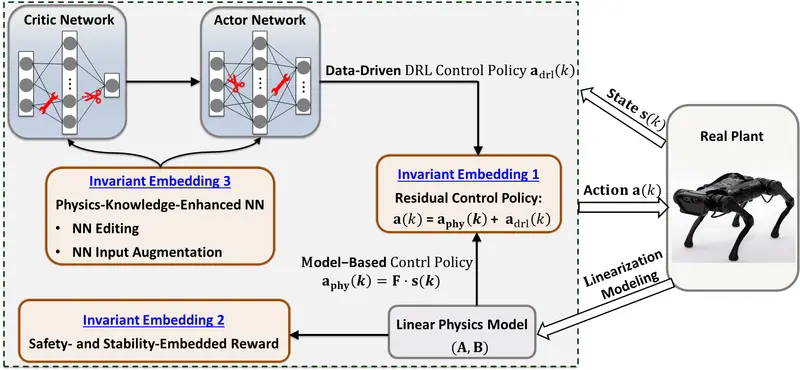
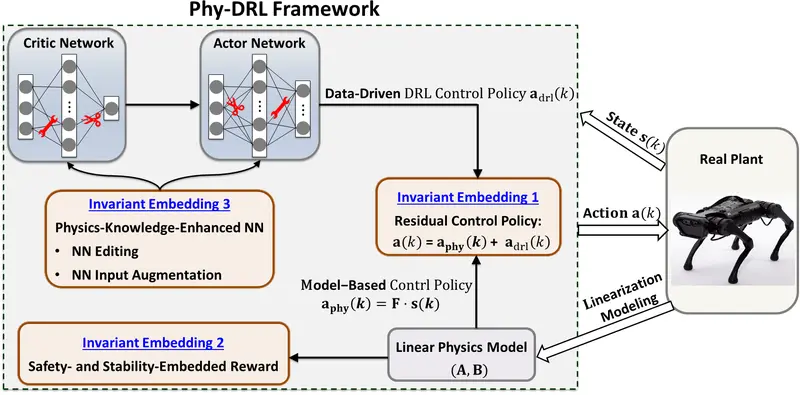
Deploying to gh-pages from @ CPS-IL/CPS-IL.github.io@ddca40976056ca32e72172afb1ae37f847421c06 🚀

Changed region(s): [[0.0, 0.0, 1.0, 1.0]]

diff --git a/projects/physics-ai/index.html b/projects/physics-ai/index.html
@@ -1,1 +1,1 @@
-<!DOCTYPE html> <html lang="en"> <head> <meta http-equiv="Content-Type" content="text/html; charset=UTF-8"> <meta charset="utf-8"> <meta name="viewport" content="width=device-width, initial-scale=1, shrink-to-fit=no"> <meta http-equiv="X-UA-Compatible" content="IE=edge"> <title>Safe Physics-AI | Cyber-Physical Systems Integration Lab </title> <meta name="author" content="Cyber-Physical Systems Integration Lab "> <meta name="description" content="Physics Model Guided Machine Learning"> <meta name="keywords" content="cyber-physical-system, real-time-system,"> <link href="https://cdn.jsdelivr.net/npm/bootstrap@4.6.1/dist/css/bootstrap.min.css" rel="stylesheet" integrity="sha256-DF7Zhf293AJxJNTmh5zhoYYIMs2oXitRfBjY+9L//AY=" crossorigin="anonymous"> <link rel="stylesheet" href="https://cdn.jsdelivr.net/npm/mdbootstrap@4.20.0/css/mdb.min.css" integrity="sha256-jpjYvU3G3N6nrrBwXJoVEYI/0zw8htfFnhT9ljN3JJw=" crossorigin="anonymous"> <link defer rel="stylesheet" href="https://unpkg.com/bootstrap-table@1.21.4/dist/bootstrap-table.min.css"> <link rel="stylesheet" href="https://cdn.jsdelivr.net/npm/@fortawesome/fontawesome-free@6.4.0/css/all.min.css" integrity="sha256-HtsXJanqjKTc8vVQjO4YMhiqFoXkfBsjBWcX91T1jr8=" crossorigin="anonymous"> <link rel="stylesheet" href="https://cdn.jsdelivr.net/npm/academicons@1.9.1/css/academicons.min.css" integrity="sha256-i1+4qU2G2860dGGIOJscdC30s9beBXjFfzjWLjBRsBg=" crossorigin="anonymous"> <link rel="stylesheet" type="text/css" href="https://fonts.googleapis.com/css?family=Roboto:300,400,500,700|Roboto+Slab:100,300,400,500,700|Material+Icons"> <link rel="stylesheet" href="https://cdn.jsdelivr.net/gh/jwarby/jekyll-pygments-themes@master/github.css" media="" id="highlight_theme_light"> <link rel="shortcut icon" href="/assets/img/cpsil_icon.png"> <link rel="stylesheet" href="/assets/css/main.css?d41d8cd98f00b204e9800998ecf8427e"> <link rel="canonical" href="https://cps-il.github.io//projects/physics-ai/"> <link rel="stylesheet" href="https://cdn.jsdelivr.net/gh/jwarby/jekyll-pygments-themes@master/native.css" media="none" id="highlight_theme_dark"> <script src="/assets/js/theme.js?96d6b3e1c3604aca8b6134c7afdd5db6"></script> <script src="/assets/js/dark_mode.js?9b17307bb950ffa2e34be0227f53558f"></script> </head> <body class="fixed-top-nav sticky-bottom-footer"> <header> <nav id="navbar" class="navbar navbar-light navbar-expand-sm fixed-top"> <div class="container"> <a class="navbar-brand title font-weight-lighter" href="/"><span class="font-weight-bold">Cyber-Physical Systems Integration Lab </span></a> <button class="navbar-toggler collapsed ml-auto" type="button" data-toggle="collapse" data-target="#navbarNav" aria-controls="navbarNav" aria-expanded="false" aria-label="Toggle navigation"> <span class="sr-only">Toggle navigation</span> <span class="icon-bar top-bar"></span> <span class="icon-bar middle-bar"></span> <span class="icon-bar bottom-bar"></span> </button> <div class="collapse navbar-collapse text-right" id="navbarNav"> <ul class="navbar-nav ml-auto flex-nowrap"> <li class="nav-item "> <a class="nav-link" href="/">about</a> </li> <li class="nav-item "> <a class="nav-link" href="/projects/">projects</a> </li> <li class="nav-item "> <a class="nav-link" href="/publications/">publications</a> </li> <li class="nav-item "> <a class="nav-link" href="/people/">people</a> </li> <li class="nav-item "> <a class="nav-link" href="/sponsors/">sponsors</a> </li> <li class="toggle-container"> <button id="light-toggle" title="Change theme"> <i class="fas fa-moon"></i> <i class="fas fa-sun"></i> </button> </li> </ul> </div> </div> </nav> <progress id="progress" value="0"> <div class="progress-container"> <span class="progress-bar"></span> </div> </progress> </header> <div class="container mt-5"> <div class="post"> <header class="post-header"> <h1 class="post-title">Safe Physics-AI</h1> <p class="post-description">Physics Model Guided Machine Learning</p> </header> <article> <div style="text-align: justify;"> <p> A physics model is a validated low-dimensional model of causality with critical properties such as provable stability in control applications. DNN is a high-dimensional model of correlations that may capture not only unmodeled dynamics overlooked by the physics model but also spurious corrections in the training samples (overfitting). As a result, while DNN has statistically significant performance improvement, but it may also generate outputs inconsistent with the laws of physics that could lead to catastrophic failures. We propose a solution that combines the best of the physical model and DNN model. </p> <p> Traditionally, we project a higher dimensional space to a lower dimension space for computational efficiency at the cost of performance. Physics model-based neuron editing turns this conventional projection approach upside down. We project a lower dimensional physics model onto a higher dimensional DNN model by 1) augmenting the input feature vector with physic variables and 2) removing relations permitted by DNN but contradicting the laws of physics. The physics model edited DNN is constrained by physical laws. We gain control performance at the cost of computing. To ensure the stability of control despite DNN software failures, we use Simplex architecture to ensure that the states under the control of the edited DNN must remain within the stability envelope of the physical model-based control. </p> </div> <p>&lt;/p&gt;</p> <h2 id="phy-drl-physics-regulated-deep-reinforcement-learning-drl-towards-safety-guarantee">Phy-DRL: Physics-Regulated Deep Reinforcement Learning (DRL) Towards Safety Guarantee</h2> <h1 id="phy-drl--physics-model-based-policy--data-driven-drl-policy-showing-in">Phy-DRL = Physics Model-Based Policy + Data-Driven DRL Policy, showing in</h1> <div style="text-align: center;"> <img src="/assets/img/physics-ai/phydrl.png" alt="Centered Image" style="width: 500px; height: auto;"> </div> <div style="text-align: center;"> <img src="/assets/img/physics-ai/ph2.png" alt="Centered Image" style="width: 500px; height: auto;"> </div> </article> </div> </div> <footer class="sticky-bottom mt-5"> <div class="container"> © Copyright 2023 Cyber-Physical Systems Integration Lab . Powered by <a href="https://jekyllrb.com/" target="_blank" rel="external nofollow noopener">Jekyll</a> with <a href="https://github.com/alshedivat/al-folio" rel="external nofollow noopener" target="_blank">al-folio</a> theme. Hosted by <a href="https://pages.github.com/" target="_blank" rel="external nofollow noopener">GitHub Pages</a>. Photos from <a href="https://unsplash.com" target="_blank" rel="external nofollow noopener">Unsplash</a>. </div> </footer> <script src="https://cdn.jsdelivr.net/npm/jquery@3.6.0/dist/jquery.min.js" integrity="sha256-/xUj+3OJU5yExlq6GSYGSHk7tPXikynS7ogEvDej/m4=" crossorigin="anonymous"></script> <script src="https://cdn.jsdelivr.net/npm/bootstrap@4.6.1/dist/js/bootstrap.bundle.min.js" integrity="sha256-fgLAgv7fyCGopR/gBNq2iW3ZKIdqIcyshnUULC4vex8=" crossorigin="anonymous"></script> <script src="https://cdn.jsdelivr.net/npm/mdbootstrap@4.20.0/js/mdb.min.js" integrity="sha256-NdbiivsvWt7VYCt6hYNT3h/th9vSTL4EDWeGs5SN3DA=" crossorigin="anonymous"></script> <script defer src="https://cdn.jsdelivr.net/npm/masonry-layout@4.2.2/dist/masonry.pkgd.min.js" integrity="sha256-Nn1q/fx0H7SNLZMQ5Hw5JLaTRZp0yILA/FRexe19VdI=" crossorigin="anonymous"></script> <script defer src="https://cdn.jsdelivr.net/npm/imagesloaded@4/imagesloaded.pkgd.min.js"></script> <script defer src="/assets/js/masonry.js" type="text/javascript"></script> <script defer src="https://cdn.jsdelivr.net/npm/medium-zoom@1.0.8/dist/medium-zoom.min.js" integrity="sha256-7PhEpEWEW0XXQ0k6kQrPKwuoIomz8R8IYyuU1Qew4P8=" crossorigin="anonymous"></script> <script defer src="/assets/js/zoom.js"></script> <script defer src="https://unpkg.com/bootstrap-table@1.21.4/dist/bootstrap-table.min.js"></script> <script src="/assets/js/no_defer.js?d633890033921b33e0ceb13d22340a9c"></script> <script defer src="/assets/js/common.js?acdb9690d7641b2f8d40529018c71a01"></script> <script defer src="/assets/js/copy_code.js?c9d9dd48933de3831b3ee5ec9c209cac" type="text/javascript"></script> <script type="text/javascript">window.MathJax={tex:{tags:"ams"}};</script> <script defer type="text/javascript" id="MathJax-script" src="https://cdn.jsdelivr.net/npm/mathjax@3.2.0/es5/tex-mml-chtml.js"></script> <script defer src="https://polyfill.io/v3/polyfill.min.js?features=es6"></script> <script type="text/javascript">function progressBarSetup(){"max"in document.createElement("progress")?(initializeProgressElement(),$(document).on("scroll",function(){progressBar.attr({value:getCurrentScrollPosition()})}),$(window).on("resize",initializeProgressElement)):(resizeProgressBar(),$(document).on("scroll",resizeProgressBar),$(window).on("resize",resizeProgressBar))}function getCurrentScrollPosition(){return $(window).scrollTop()}function initializeProgressElement(){let e=$("#navbar").outerHeight(!0);$("body").css({"padding-top":e}),$("progress-container").css({"padding-top":e}),progressBar.css({top:e}),progressBar.attr({max:getDistanceToScroll(),value:getCurrentScrollPosition()})}function getDistanceToScroll(){return $(document).height()-$(window).height()}function resizeProgressBar(){progressBar.css({width:getWidthPercentage()+"%"})}function getWidthPercentage(){return getCurrentScrollPosition()/getDistanceToScroll()*100}const progressBar=$("#progress");window.onload=function(){setTimeout(progressBarSetup,50)};</script> </body> </html>
+<!DOCTYPE html> <html lang="en"> <head> <meta http-equiv="Content-Type" content="text/html; charset=UTF-8"> <meta charset="utf-8"> <meta name="viewport" content="width=device-width, initial-scale=1, shrink-to-fit=no"> <meta http-equiv="X-UA-Compatible" content="IE=edge"> <title>Safe Physics-AI | Cyber-Physical Systems Integration Lab </title> <meta name="author" content="Cyber-Physical Systems Integration Lab "> <meta name="description" content="Physics Model Guided Machine Learning"> <meta name="keywords" content="cyber-physical-system, real-time-system,"> <link href="https://cdn.jsdelivr.net/npm/bootstrap@4.6.1/dist/css/bootstrap.min.css" rel="stylesheet" integrity="sha256-DF7Zhf293AJxJNTmh5zhoYYIMs2oXitRfBjY+9L//AY=" crossorigin="anonymous"> <link rel="stylesheet" href="https://cdn.jsdelivr.net/npm/mdbootstrap@4.20.0/css/mdb.min.css" integrity="sha256-jpjYvU3G3N6nrrBwXJoVEYI/0zw8htfFnhT9ljN3JJw=" crossorigin="anonymous"> <link defer rel="stylesheet" href="https://unpkg.com/bootstrap-table@1.21.4/dist/bootstrap-table.min.css"> <link rel="stylesheet" href="https://cdn.jsdelivr.net/npm/@fortawesome/fontawesome-free@6.4.0/css/all.min.css" integrity="sha256-HtsXJanqjKTc8vVQjO4YMhiqFoXkfBsjBWcX91T1jr8=" crossorigin="anonymous"> <link rel="stylesheet" href="https://cdn.jsdelivr.net/npm/academicons@1.9.1/css/academicons.min.css" integrity="sha256-i1+4qU2G2860dGGIOJscdC30s9beBXjFfzjWLjBRsBg=" crossorigin="anonymous"> <link rel="stylesheet" type="text/css" href="https://fonts.googleapis.com/css?family=Roboto:300,400,500,700|Roboto+Slab:100,300,400,500,700|Material+Icons"> <link rel="stylesheet" href="https://cdn.jsdelivr.net/gh/jwarby/jekyll-pygments-themes@master/github.css" media="" id="highlight_theme_light"> <link rel="shortcut icon" href="/assets/img/cpsil_icon.png"> <link rel="stylesheet" href="/assets/css/main.css?d41d8cd98f00b204e9800998ecf8427e"> <link rel="canonical" href="https://cps-il.github.io//projects/physics-ai/"> <link rel="stylesheet" href="https://cdn.jsdelivr.net/gh/jwarby/jekyll-pygments-themes@master/native.css" media="none" id="highlight_theme_dark"> <script src="/assets/js/theme.js?96d6b3e1c3604aca8b6134c7afdd5db6"></script> <script src="/assets/js/dark_mode.js?9b17307bb950ffa2e34be0227f53558f"></script> </head> <body class="fixed-top-nav sticky-bottom-footer"> <header> <nav id="navbar" class="navbar navbar-light navbar-expand-sm fixed-top"> <div class="container"> <a class="navbar-brand title font-weight-lighter" href="/"><span class="font-weight-bold">Cyber-Physical Systems Integration Lab </span></a> <button class="navbar-toggler collapsed ml-auto" type="button" data-toggle="collapse" data-target="#navbarNav" aria-controls="navbarNav" aria-expanded="false" aria-label="Toggle navigation"> <span class="sr-only">Toggle navigation</span> <span class="icon-bar top-bar"></span> <span class="icon-bar middle-bar"></span> <span class="icon-bar bottom-bar"></span> </button> <div class="collapse navbar-collapse text-right" id="navbarNav"> <ul class="navbar-nav ml-auto flex-nowrap"> <li class="nav-item "> <a class="nav-link" href="/">about</a> </li> <li class="nav-item "> <a class="nav-link" href="/projects/">projects</a> </li> <li class="nav-item "> <a class="nav-link" href="/publications/">publications</a> </li> <li class="nav-item "> <a class="nav-link" href="/people/">people</a> </li> <li class="nav-item "> <a class="nav-link" href="/sponsors/">sponsors</a> </li> <li class="toggle-container"> <button id="light-toggle" title="Change theme"> <i class="fas fa-moon"></i> <i class="fas fa-sun"></i> </button> </li> </ul> </div> </div> </nav> <progress id="progress" value="0"> <div class="progress-container"> <span class="progress-bar"></span> </div> </progress> </header> <div class="container mt-5"> <div class="post"> <header class="post-header"> <h1 class="post-title">Safe Physics-AI</h1> <p class="post-description">Physics Model Guided Machine Learning</p> </header> <article> <div style="text-align: justify;"> <p> A physics model is a validated low-dimensional model of causality with critical properties such as provable stability in control applications. DNN is a high-dimensional model of correlations that may capture not only unmodeled dynamics overlooked by the physics model but also spurious corrections in the training samples (overfitting). As a result, while DNN has statistically significant performance improvement, but it may also generate outputs inconsistent with the laws of physics that could lead to catastrophic failures. We propose a solution that combines the best of the physical model and DNN model. </p> <p> Traditionally, we project a higher dimensional space to a lower dimension space for computational efficiency at the cost of performance. Physics model-based neuron editing turns this conventional projection approach upside down. We project a lower dimensional physics model onto a higher dimensional DNN model by 1) augmenting the input feature vector with physic variables and 2) removing relations permitted by DNN but contradicting the laws of physics. The physics model edited DNN is constrained by physical laws. We gain control performance at the cost of computing. To ensure the stability of control despite DNN software failures, we use Simplex architecture to ensure that the states under the control of the edited DNN must remain within the stability envelope of the physical model-based control. </p> </div> <h1 id="work-1-phy-drl-physics-regulated-deep-reinforcement-learning-drl-towards-safety-guarantee">Work 1: Phy-DRL: Physics-Regulated Deep Reinforcement Learning (DRL) Towards Safety Guarantee</h1> <p>Phy-DRL = Physics Model-Based Policy + Data-Driven DRL Policy.</p> <p><em>Experiment in Cart-Pole Systems.</em></p> <div style="text-align: center;"> <img src="/assets/img/physics-ai/phydrl.png" alt="Centered Image" style="width: 500px; height: auto;"> </div> <p><em>Experiment in Quadruped Robot: safe lane tracking, safe velocity regulation, and safe center-gravity management.</em></p> <div style="text-align: center;"> <img src="/assets/img/physics-ai/ph2.png" alt="Centered Image" style="width: 500px; height: auto;"> </div> </article> </div> </div> <footer class="sticky-bottom mt-5"> <div class="container"> © Copyright 2023 Cyber-Physical Systems Integration Lab . Powered by <a href="https://jekyllrb.com/" target="_blank" rel="external nofollow noopener">Jekyll</a> with <a href="https://github.com/alshedivat/al-folio" rel="external nofollow noopener" target="_blank">al-folio</a> theme. Hosted by <a href="https://pages.github.com/" target="_blank" rel="external nofollow noopener">GitHub Pages</a>. Photos from <a href="https://unsplash.com" target="_blank" rel="external nofollow noopener">Unsplash</a>. </div> </footer> <script src="https://cdn.jsdelivr.net/npm/jquery@3.6.0/dist/jquery.min.js" integrity="sha256-/xUj+3OJU5yExlq6GSYGSHk7tPXikynS7ogEvDej/m4=" crossorigin="anonymous"></script> <script src="https://cdn.jsdelivr.net/npm/bootstrap@4.6.1/dist/js/bootstrap.bundle.min.js" integrity="sha256-fgLAgv7fyCGopR/gBNq2iW3ZKIdqIcyshnUULC4vex8=" crossorigin="anonymous"></script> <script src="https://cdn.jsdelivr.net/npm/mdbootstrap@4.20.0/js/mdb.min.js" integrity="sha256-NdbiivsvWt7VYCt6hYNT3h/th9vSTL4EDWeGs5SN3DA=" crossorigin="anonymous"></script> <script defer src="https://cdn.jsdelivr.net/npm/masonry-layout@4.2.2/dist/masonry.pkgd.min.js" integrity="sha256-Nn1q/fx0H7SNLZMQ5Hw5JLaTRZp0yILA/FRexe19VdI=" crossorigin="anonymous"></script> <script defer src="https://cdn.jsdelivr.net/npm/imagesloaded@4/imagesloaded.pkgd.min.js"></script> <script defer src="/assets/js/masonry.js" type="text/javascript"></script> <script defer src="https://cdn.jsdelivr.net/npm/medium-zoom@1.0.8/dist/medium-zoom.min.js" integrity="sha256-7PhEpEWEW0XXQ0k6kQrPKwuoIomz8R8IYyuU1Qew4P8=" crossorigin="anonymous"></script> <script defer src="/assets/js/zoom.js"></script> <script defer src="https://unpkg.com/bootstrap-table@1.21.4/dist/bootstrap-table.min.js"></script> <script src="/assets/js/no_defer.js?d633890033921b33e0ceb13d22340a9c"></script> <script defer src="/assets/js/common.js?acdb9690d7641b2f8d40529018c71a01"></script> <script defer src="/assets/js/copy_code.js?c9d9dd48933de3831b3ee5ec9c209cac" type="text/javascript"></script> <script type="text/javascript">window.MathJax={tex:{tags:"ams"}};</script> <script defer type="text/javascript" id="MathJax-script" src="https://cdn.jsdelivr.net/npm/mathjax@3.2.0/es5/tex-mml-chtml.js"></script> <script defer src="https://polyfill.io/v3/polyfill.min.js?features=es6"></script> <script type="text/javascript">function progressBarSetup(){"max"in document.createElement("progress")?(initializeProgressElement(),$(document).on("scroll",function(){progressBar.attr({value:getCurrentScrollPosition()})}),$(window).on("resize",initializeProgressElement)):(resizeProgressBar(),$(document).on("scroll",resizeProgressBar),$(window).on("resize",resizeProgressBar))}function getCurrentScrollPosition(){return $(window).scrollTop()}function initializeProgressElement(){let e=$("#navbar").outerHeight(!0);$("body").css({"padding-top":e}),$("progress-container").css({"padding-top":e}),progressBar.css({top:e}),progressBar.attr({max:getDistanceToScroll(),value:getCurrentScrollPosition()})}function getDistanceToScroll(){return $(document).height()-$(window).height()}function resizeProgressBar(){progressBar.css({width:getWidthPercentage()+"%"})}function getWidthPercentage(){return getCurrentScrollPosition()/getDistanceToScroll()*100}const progressBar=$("#progress");window.onload=function(){setTimeout(progressBarSetup,50)};</script> </body> </html>
